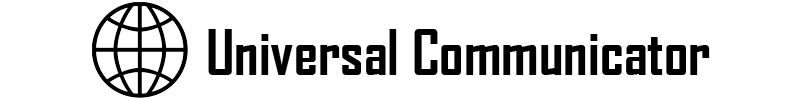
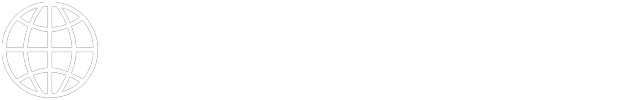
Update
Update

diff --git a/Projects/Proto2/intro.html b/Projects/Proto2/intro.html
@@ -3,7 +3,7 @@
 <head>
   <meta charset="UTF-8">
   <link rel="stylesheet" href="styles.css">
-  <title>Interactive Wireframe</title>
+  <title>Prototype 2</title>
 </head>
 <body>
   <a href="index.html">
@@ -11,34 +11,30 @@
   </a>
   <h1 id="selector">Select your country:</h1>
   <!-- <div id="flag1"> -->
-  <a href="country.html">
-    <img class="flag" src="flag.png" alt="flag1">
-  </a>
+  <section id="countryimg">
+  <a href="action.html">
+    <img class="flag" src="flag.png" alt="flag1"></a>
   <!-- </div>
   <div id="flag2"> -->
-  <a href="country.html">
-    <img class="flag" src="flag.png" alt="flag2">
-  </a>
+  <a href="action.html">
+    <img class="flag" src="flag.png" alt="flag2"></a>
   <!-- </div>
   <div id="flag3"> -->
-  <a href="country.html">
-    <img class="flag" src="flag.png" alt="flag3">
-  </a>
+  <a href="action.html">
+    <img class="flag" src="flag.png" alt="flag3"></a>
   <!-- </div>
   <div id="flag4"> -->
-  <a href="country.html">
-    <img class="flag" src="flag.png" alt="flag4">
-  </a>
+  <a href="action.html">
+    <img class="flag" src="flag.png" alt="flag4"></a>
   <!-- </div>
   <div id="flag5"> -->
-  <a href="country.html">
-    <img class="flag" src="flag.png" alt="flag5">
-  </a>
+  <a href="action.html">
+    <img class="flag" src="flag.png" alt="flag5"></a>
   <!-- </div>
   <div id="flag6"> -->
-  <a href="country.html">
-    <img class="flag" src="flag.png" alt="flag6">
-  </a>
+  <a href="action.html">
+    <img class="flag" src="flag.png" alt="flag6"></a>
+  </section>
   <!-- </div> -->
   <div class="nav">
     <a href="index.html">

diff --git a/Projects/Proto2/country1.html b/Projects/Proto2/country1.html
@@ -3,7 +3,7 @@
 <head>
   <meta charset="UTF-8">
   <link rel="stylesheet" href="styles.css">
-  <title>Interactive Wireframe</title>
+  <title>Prototype 2</title>
 </head>
 <body>
   <a href="index.html">
@@ -12,27 +12,27 @@
   <h1 id="selector">Select the country you want to learn about:</h1>
   <ul>
     <li class="list">
-      <a href="meaning.html">
+      <a href="meaning1.html">
         <button class="countbut" type="button">Country 1</button>
       </a>
     </li>
     <li class="list">
-      <a href="meaning.html">
+      <a href="meaning1.html">
         <button class="countbut" type="button">Country 2</button>
       </a>
     </li>
     <li class="list">
-      <a href="meaning.html">
+      <a href="meaning1.html">
         <button class="countbut" type="button">Country 3</button>
       </a>
     </li>
     <li class="list">
-      <a href="meaning.html">
+      <a href="meaning1.html">
         <button class="countbut" type="button">Country 4</button>
       </a>
     </li>
     <li class="list">
-      <a href="meaning.html">
+      <a href="meaning1.html">
         <button class="countbut" type="button">Country 5</button>
       </a>
     </li>

diff --git a/Projects/Proto2/intro1.html b/Projects/Proto2/intro1.html
@@ -11,37 +11,37 @@
   </a>
   <h1 id="selector">Select your country:</h1>
   <!-- <div id="flag1"> -->
-  <a href="country1.html">
+  <a href="meaning.html">
     <img class="flag" src="flag.png" alt="flag1">
   </a>
   <!-- </div>
   <div id="flag2"> -->
-  <a href="country1.html">
+  <a href="meaning.html">
     <img class="flag" src="flag.png" alt="flag2">
   </a>
   <!-- </div>
   <div id="flag3"> -->
-  <a href="country1.html">
+  <a href="meaning.html">
     <img class="flag" src="flag.png" alt="flag3">
   </a>
   <!-- </div>
   <div id="flag4"> -->
-  <a href="country1.html">
+  <a href="meaning.html">
     <img class="flag" src="flag.png" alt="flag4">
   </a>
   <!-- </div>
   <div id="flag5"> -->
-  <a href="country1.html">
+  <a href="meaning.html">
     <img class="flag" src="flag.png" alt="flag5">
   </a>
   <!-- </div>
   <div id="flag6"> -->
-  <a href="country1.html">
+  <a href="meaning.html">
     <img class="flag" src="flag.png" alt="flag6">
   </a>
   <!-- </div> -->
   <div class="nav">
-    <a href="index.html">
+    <a href="meaning.html">
       <button class="navbut" type="home">Home</button>
     </a>
   </div>

diff --git a/Projects/Proto2/action.html b/Projects/Proto2/action.html
@@ -27,24 +27,22 @@
     </div>
   </div> -->
   <!-- <div id="action1"> -->
+  <section id="actionimg">
   <a href="meaning.html">
-  <img class="action" src="action.png" alt="action1">
-  </a>
+  <img class="action" src="action.png" alt="action1"></a>
   <!-- </div>
   <div id="action2"> -->
   <a href="meaning.html">
-  <img class="action" src="action.png" alt="action2">
-  </a>
+  <img class="action" src="action.png" alt="action2"></a>
   <!-- </div>
   <div id="action3"> -->
   <a href="meaning.html">
-  <img class="action" src="action.png" alt="action3">
-  </a>
+  <img class="action" src="action.png" alt="action3"></a>
   <!-- </div>
   <div id="action4"> -->
   <a href="meaning.html">
-  <img class="action" src="action.png" alt="action4">
-  </a>
+  <img class="action" src="action.png" alt="action4"></a>
+  </section>
   <!-- </div> -->
   <br>
   <!-- <a href="meaning.html">

diff --git a/Projects/Proto2/styles.css b/Projects/Proto2/styles.css
@@ -5,7 +5,7 @@ html, body {
 }
 
 body {
-  background-color: #66b3ff;
+  background-color: #001a4d;
   overflow: auto;
   font-family: sans-serif;
 }
@@ -19,6 +19,18 @@ footer {
   text-align: center;
 }
 
+h1 {
+  color: white;
+}
+
+h2 {
+  color: white;
+}
+
+p {
+  color: white;
+}
+
 #banner {
   display: block;
   margin: auto;
@@ -27,15 +39,16 @@ footer {
 
 #selector {
   text-align: center;
+  color: white;
 }
 
 #description {
   text-align: center;
   padding: 20px;
-  background-color: #ffffff;
   font-size: 20px;
   margin: auto;
-  width: 800px;
+  width: 1000px;
+  color: white;
 }
 
 #submit {
@@ -85,6 +98,18 @@ footer {
 
 #mainblock {
   padding-bottom: 50px;
+}
+
+#countryimg {
+  margin: auto;
+  display: inline-block;
+  text-align: center;
+}
+
+#actionimg {
+  margin: auto;
+  display: inline-block;
+  text-align: center;
 }
 
 .flag {

diff --git a/Projects/Proto2/meaning1.html b/Projects/Proto2/meaning1.html
@@ -25,7 +25,7 @@
   <p id="meaning">Lorem ipsum dolor sit amet, consectetur adipiscing elit, sed do eiusmod tempor incididunt ut labore et dolore magna aliqua. Ut enim ad minim veniam, quis nostrud exercitation ullamco laboris nisi ut aliquip ex ea commodo consequat.</p>
   </div>
   <div class="nav">
-    <a href="action.html">
+    <a href="country1.html">
       <button class="navbut" type="reset">Back</button>
     </a>
     <a href="index.html">

diff --git a/Projects/Proto2/index.html b/Projects/Proto2/index.html
@@ -3,7 +3,7 @@
 <head>
   <meta charset="UTF-8">
   <link rel="stylesheet" href="styles.css">
-  <title>Interactive Wireframe</title>
+  <title>Prototype 2</title>
 </head>
 <body>
   <section id="mainblock">

diff --git a/Projects/Proto2/country.html b/Projects/Proto2/country.html
@@ -3,7 +3,7 @@
 <head>
   <meta charset="UTF-8">
   <link rel="stylesheet" href="styles.css">
-  <title>Interactive Wireframe</title>
+  <title>Prototype 2</title>
 </head>
 <body>
   <a href="index.html">
